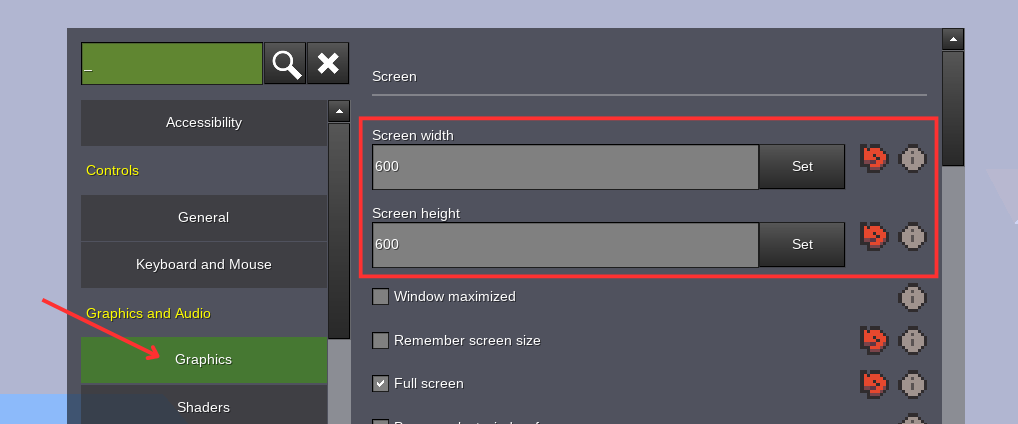
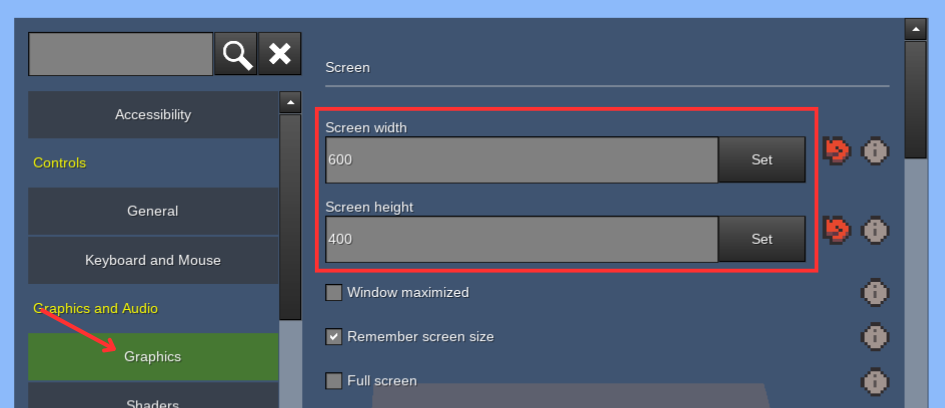
Improve content of 'Screenshot' chapter. Also fix incorrect image

diff --git a/Writerside/topics/Making-a-Map-for-Capture-the-Flag.md b/Writerside/topics/Making-a-Map-for-Capture-the-Flag.md
@@ -372,25 +372,29 @@
   ```
 
 ## 13. Screenshot
-From the ctf_map README:
-> If you choose to submit your map, include a screenshot of it in the exported map's folder. It should be taken without any texture packs enabled and must have an aspect ratio of 3:2 (screenshot `600px`x`400px` is suggested).
->
-> You can take a screenshot easily by doing the following:
-> 1. Hide the HUD. By default <kbd>F1</kbd> does that.
-> 2. Hide the chat log. By default <kbd>F2</kbd> does that.
-> 3. See if your screenshot looks better with/without fog enabled. You can toggle it with <kbd>F3</kbd> by default
-> 4. Try to find a good view that shows most of the map.
-> 5. *(Optional)* Increase your view range if important parts of the map cannot be seen. By default the <kbd>=</kbd> (or <kbd>+</kbd>) and <kbd>-</kbd> keys do that.
-> 6. Take a screenshot **from Minetest**. By default <kbd>F12</kbd> does that.
-> 7. You can find the screenshot in `[Minetest folder]/screenshots` unless you have changed the path in the settings.
->
-> Crop the screenshot into the aspect ratio mentioned above using a tool of your choice, and put the screenshot inside your exported map's folder. It should be named `screenshot.png`.
+* If you choose to submit your map, include a screenshot of it in the exported map's folder. It should be taken without any texture packs enabled and must have an aspect ratio of 3:2 (screenshot `600px`x`400px` is suggested).
+* To set the correct aspect ratio, you can:
+  1. [Change the height and width of your Minetest window](#using-minetest-to-adjust-screenshot-aspect-ratio) and take a screenshot *or*
+  2. Use a tool of your choice after taking the screenshot. For example, you can use [this](https://imagy.app/image-aspect-ratio-changer/) website.
 
-You can change the height and width of your Minetest window and take a screenshot in-game with the correct aspect ratio or use [this](https://imagy.app/image-aspect-ratio-changer/) website. For the first option, do as follows:
+### Using Minetest to adjust screenshot aspect ratio
+
 1. Go to your Minetest client's settings and under `Graphics`, temporarily set the `Screen Width` and `Screen Height` to `600` and `400` respectively as shown below:
-  ![Graphics Settings Menu](graphics_height_width_settings.png)
+   ![Graphics Settings Menu](graphics_height_width_settings.png)
 2. After making sure that the values are properly set, close and re-open your Minetest client. Your Minetest window's height and width should have changed now.
-3.  Keep the window size as it is and follow the screenshot steps mentioned in the previous section.
+3.  Keep the window size as it is and follow the screenshot steps mentioned in the next section
+
+### Taking the screenshot in Minetest
+You can take a screenshot easily by doing the following:
+1. Hide the HUD. By default <kbd>F1</kbd> does that.
+2. Hide the chat log. By default <kbd>F2</kbd> does that.
+3. See if your screenshot looks better with/without fog enabled. You can toggle it with <kbd>F3</kbd> by default
+4. Try to find a good view that shows most of the map.
+5. *(Optional)* Increase your view range if important parts of the map cannot be seen. By default the <kbd>=</kbd> (or <kbd>+</kbd>) and <kbd>-</kbd> keys do that.
+6. Take a screenshot **from Minetest**. By default <kbd>F12</kbd> does that.
+7. You can find the screenshot in `[Minetest folder]/screenshots` unless you have changed the path in the settings.
+
+If you did not [use Minetest do adjust the screenshot aspect ratio](#using-minetest-to-adjust-screenshot-aspect-ratio), then crop the screenshot into the correct aspect ratio using a tool of your choice, and put the screenshot inside your exported map's folder. It should be named `screenshot.png`.
 
 ## 14. Submission
 * Now that you have finished making your map, you can submit it to the official CTF server. You can learn more about submission [here](https://github.com/MT-CTF/capturetheflag/blob/master/mods/ctf/ctf_map/README.md#9-submission).
